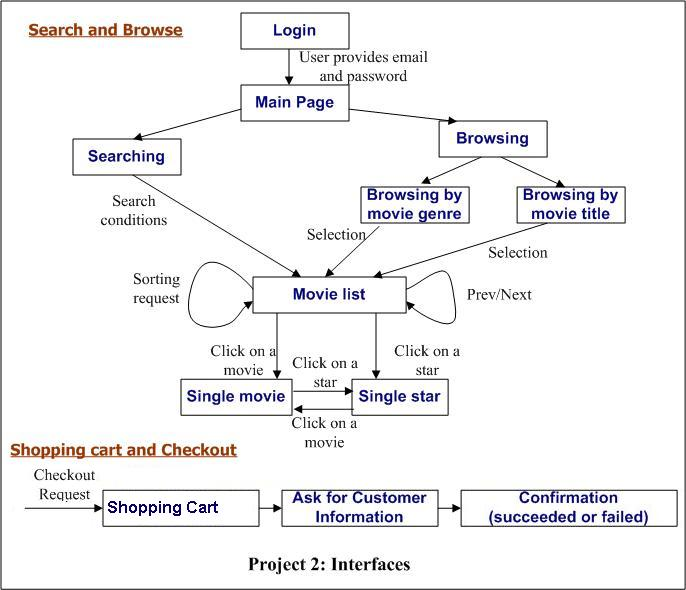
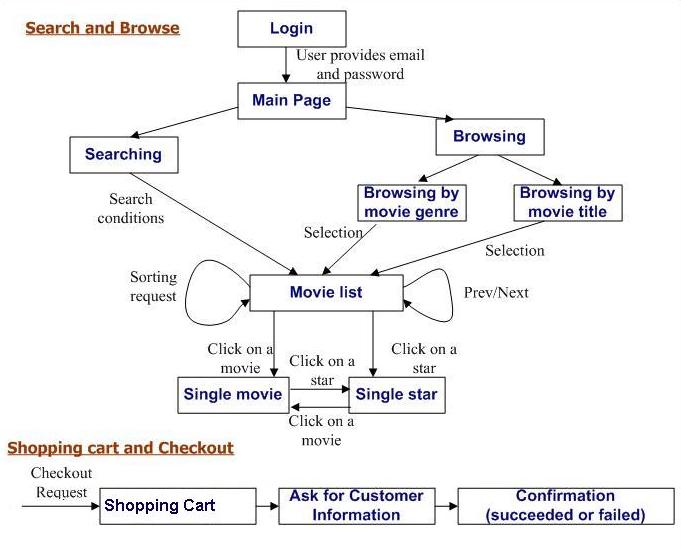
Added design diagram

Changed region(s): [[0.0, 0.0, 1.0, 1.0]]

diff --git a/README.md b/README.md
@@ -1,13 +1,14 @@
 # MovieJunkies
-This project is a website named MovieJunkies which queries movie and actor information from a local database. It serves a login page, movie and actor search pages, and a shopping cart checkout page. Also present is employee access login for database changes.
+This project is a web application that allows customers to browse/search for movie information, add interesting movies to their shopping cart, and check out. The following figure shows the flow of this website's interface.
 
-An Android application supporting many features of the site can be found in the Mobile directory.
+![Alt text](design-diagram.jpg?raw=true "Design Diagram")
 
-Originally served on an Ubuntu instance running apache-tomcat 8 and mysql.
+The site runs on java servlets in the backend and html/css/javascript in the frontend.
+It was originally served on an Ubuntu instance running apache-tomcat 8 and mysql.
+
+An Android app supporting many of the search features can be found in the Mobile directory.
 
 Programming Features:  
-Frontend Javascript, CSS, HTML, jQuery  
-Backend Java Servlets  
 Use of Cookies  
 Pagination  
 HTTPS and Recaptcha support  
@@ -17,5 +18,3 @@ Autocomplete
 Connection Pooling  
 Master/Slave Load Balancing  
 
-The following figure shows the flow of this website's interface.
-![Alt text](design-diagram.jpg?raw=true "Design Diagram")
